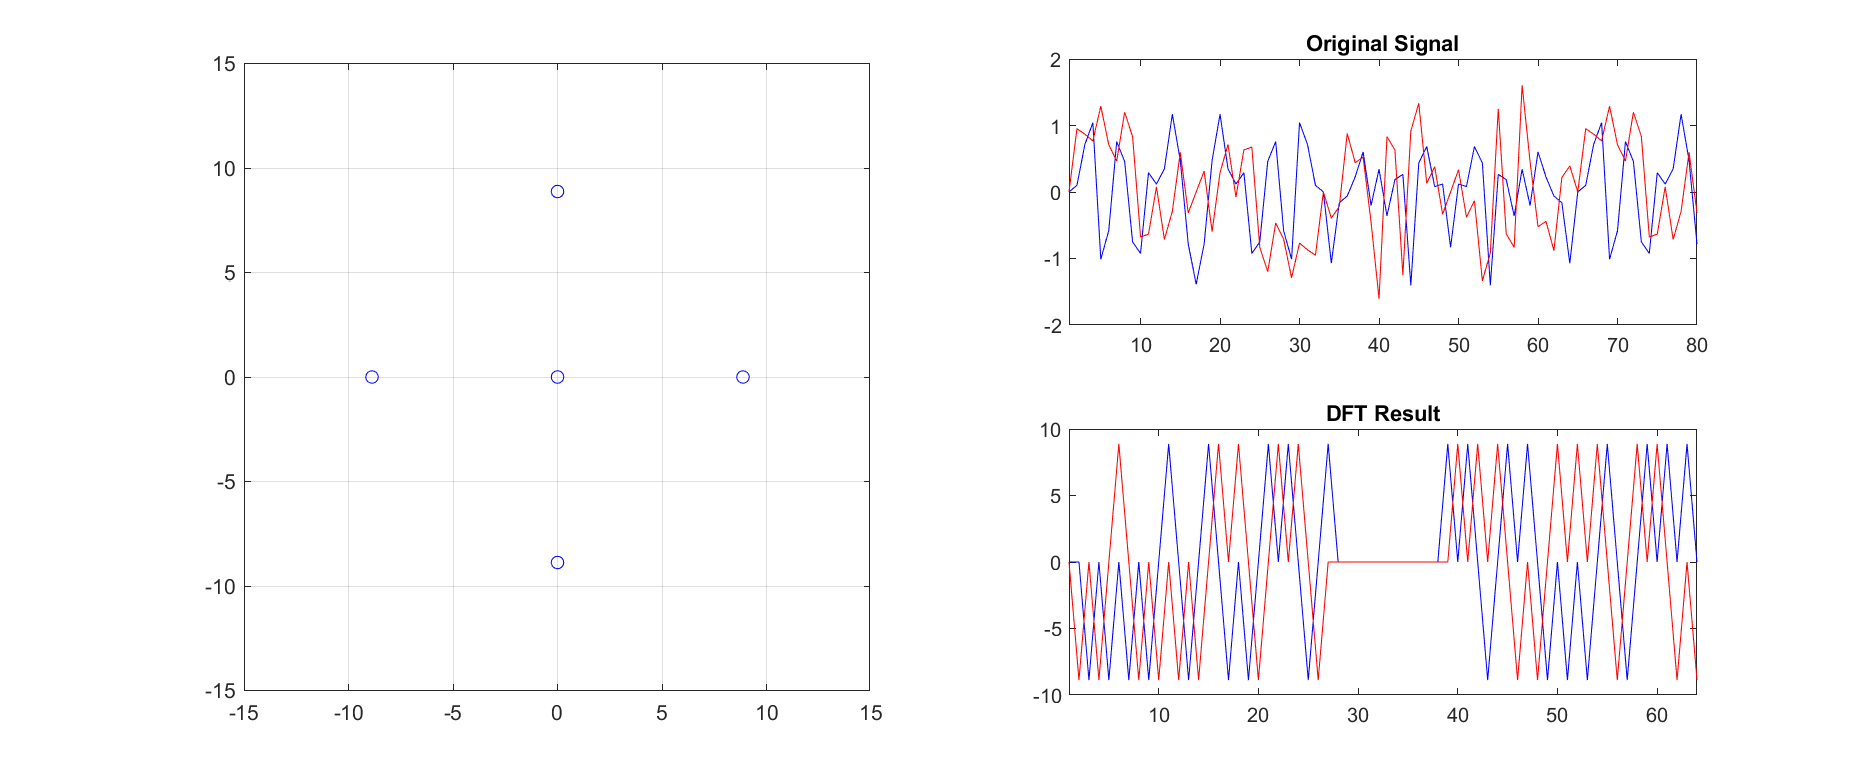
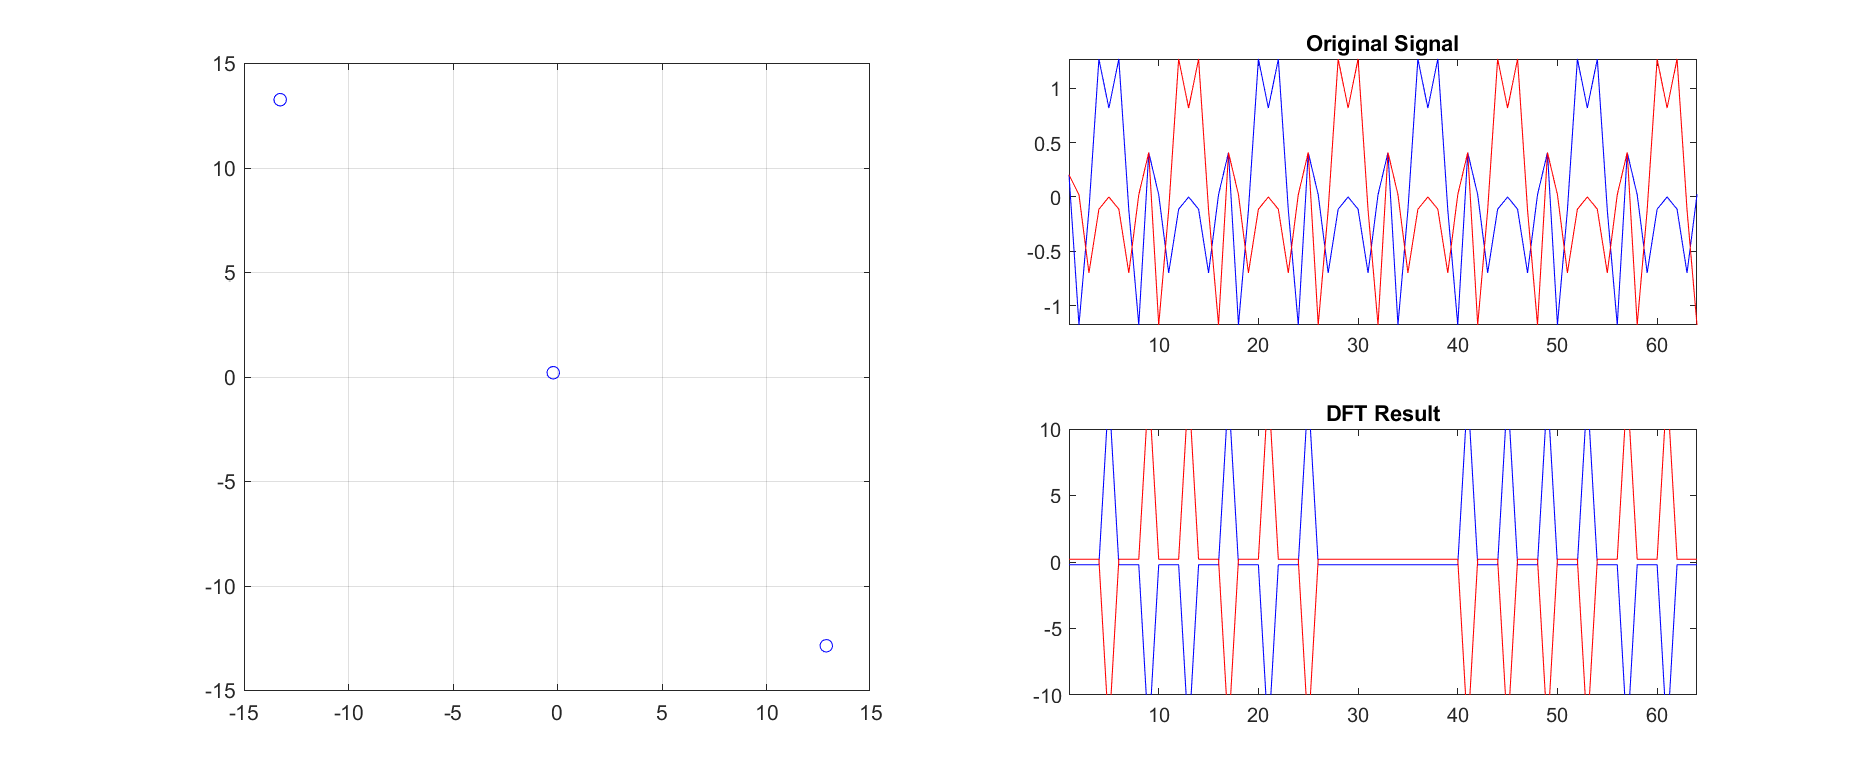
update

diff --git a/signal_preprocess/preprocess.m b/signal_preprocess/preprocess.m
@@ -7,12 +7,51 @@ dft_matrix = dftmtx(64);
 
 save_fig_folder = "./results/";
 
+
+sync_long = get_sync_long();
+
+cfg = wlanHTConfig('ChannelBandwidth', 'CBW20');
+HTLTF = wlanHTLTF(cfg);
+HTSTF = wlanHTSTF(cfg);
+
+sync_long_dot_ret = row_x_matrix(HTLTF(1:64).', dft_matrix);
+sync_short_dot_ret = row_x_matrix(HTSTF(1:64).', dft_matrix);
+
+figure();
+subplot(2, 2, 1)
+plot(real(HTLTF), 'b')
+hold on
+plot(imag(HTLTF), 'r')
+xlim([1, 64])
+title("Long-Training-Field")
+
+subplot(2, 2, 2)
+plot(real(HTSTF), 'b')
+hold on
+plot(imag(HTSTF), 'r')
+xlim([1, 64])
+title("Short-Training-Field")
+
+subplot(2, 2, 3)
+plot(real(sync_long_dot_ret), 'b')
+hold on
+plot(imag(sync_long_dot_ret), 'r')
+xlim([1, 64])
+title("DFT Long-Training-Field")
+
+subplot(2, 2, 4)
+plot(real(sync_short_dot_ret), 'b')
+hold on
+plot(imag(sync_short_dot_ret), 'r')
+xlim([1, 64])
+title("DFT Short-Training-Field")
+
 for e = 0:7
     [dataset, len] = get_signal(e, 128);
 
     n_odfm_symbol = floor(len/80);
 
-    for i_symbol = 9:n_odfm_symbol
+    for i_symbol = 1:n_odfm_symbol
         smp_s = (i_symbol-1)*80+1;
         smp_e = i_symbol*80;
         
@@ -86,7 +125,7 @@ for e = 0:7
         hold on
         plot(symbol_sample(2, :), 'r-')
         title("Original Signal")
-        xlim([1, 80])
+        xlim([1, 64])
 
         subplot(2, 2, 4)
         plot(real(dot_ret_cyclic(show_cyclic, :)), 'b-')
@@ -94,6 +133,7 @@ for e = 0:7
         title("DFT Result")
         plot(imag(dot_ret_cyclic(show_cyclic, :)), 'r-')
         xlim([1, 64])
+        ylim([-10, 10])
 
         subplot(2, 2, [1, 3])
         plot(real(dot_ret_cyclic(show_cyclic, :)), imag(dot_ret_cyclic(show_cyclic, :)), 'bo')
@@ -109,7 +149,7 @@ for e = 0:7
         saveas(fig, strcat(save_fig_folder, filename))
         break
     end
-    % break
+    break
 end
 
 
@@ -140,7 +180,30 @@ function [d, len] = get_signal(e, pdu_len)
     d = d(:, 1:len);
 end
 
-
+function sync_long = get_sync_long()
+    sync_long = [-0.0455 - 1.0679*1j, 0.3528 - 0.9865*1j, 0.8594 + 0.7348*1j, ...
+                 0.1874 + 0.2475*1j, 0.5309 - 0.7784*1j, -1.0218 - 0.4897*1j, ...
+                 -0.3401 - 0.9423*1j, 0.8657 - 0.2298*1j, 0.4734 + 0.0362*1j, ...
+                 0.0088 - 1.0207*1j, -1.2142 - 0.4205*1j, 0.2172 - 0.5195*1j, ...
+                 0.5207 - 0.1326*1j, -0.1995 + 1.4259*1j, 1.0583 - 0.0363*1j, ...
+                 0.5547 - 0.5547*1j, 0.3277 + 0.8728*1j, -0.5077 + 0.3488*1j, ...
+                 -1.1650 + 0.5789*1j, 0.7297 + 0.8197*1j, 0.6173 + 0.1253*1j, ...
+                 -0.5353 + 0.7214*1j, -0.5011 - 0.1935*1j, -0.3110 - 1.3392*1j, ...
+                 -1.0818 - 0.1470*1j, -1.1300 - 0.1820*1j, 0.6663 - 0.6571*1j, ...
+                 -0.0249 + 0.4773*1j, -0.8155 + 1.0218*1j, 0.8140 + 0.9396*1j, ...
+                 0.1090 + 0.8662*1j, -1.3868 - 0.0000*1j, 0.1090 - 0.8662*1j, ...
+                 0.8140 - 0.9396*1j, -0.8155 - 1.0218*1j, -0.0249 - 0.4773*1j, ...
+                 0.6663 + 0.6571*1j, -1.1300 + 0.1820*1j, -1.0818 + 0.1470*1j, ...
+                 -0.3110 + 1.3392*1j, -0.5011 + 0.1935*1j, -0.5353 - 0.7214*1j, ...
+                 0.6173 - 0.1253*1j, 0.7297 - 0.8197*1j, -1.1650 - 0.5789*1j, ...
+                 -0.5077 - 0.3488*1j, 0.3277 - 0.8728*1j, 0.5547 + 0.5547*1j, ...
+                 1.0583 + 0.0363*1j, -0.1995 - 1.4259*1j, 0.5207 + 0.1326*1j, ...
+                 0.2172 + 0.5195*1j, -1.2142 + 0.4205*1j, 0.0088 + 1.0207*1j, ...
+                 0.4734 - 0.0362*1j, 0.8657 + 0.2298*1j, -0.3401 + 0.9423*1j, ...
+                 -1.0218 + 0.4897*1j, 0.5309 + 0.7784*1j, 0.1874 - 0.2475*1j, ...
+                 0.8594 - 0.7348*1j, 0.3528 + 0.9865*1j, -0.0455 + 1.0679*1j, ...
+                 1.3868 - 0.0000*1j];
+end
 
 
 

diff --git a/signal_preprocess/generate_signals.m b/signal_preprocess/generate_signals.m
@@ -2,9 +2,29 @@ clc
 clear
 close all
 %%
-% WBFM; BPSK; QPSK; 8PSK; 16QAM; 64QAM; 4PAM; CPFSK; AM-SSB; SM-DSB
+% Discrete sample:
+%   BPSK; QPSK; 8PSK; 16QAM; 64QAM; 4PAM; CPFSK
+% Continue sample:
+%   WBFM; AM-SSB; SM-DSB
+
+%% Wi-Fi
+
 
 %% WBFM
+% http://hyperphysics.phy-astr.gsu.edu/hbase/Audio/radio.html
+fs = 1e3;           % Sample Frequency
+fc = 200;           % Carrier Frequency 88.1 MHz - 108.1 MHz
+fDev = 50;          % Frequency Deviation (Hz)/Modulation index
+
+t = (0:1/fs:.1);
+continue_signal = sin(2*pi*30*t) + 2*sin(2*pi*60*t);
+
+fm_signal = fmmod(continue_signal, fc, fs, fDev);
+fm_fig = figure();
+plot(t, fm_signal)
+hold on
+plot(t, continue_signal)
+legend("Modulated Signal", "Original Signal")
 
 
 %% 4PAM
@@ -33,18 +53,35 @@ plot(imag(cpfsk_signal))
 
 
 %% AM-SSB; AM-DSB
-fs = 100;
-fc = 10;
-t = (0:1/fs:1);
-x = sin(2*pi*t);
+% http://hyperphysics.phy-astr.gsu.edu/hbase/Audio/radio.html
+fs = 44.1e3;           % Sample Frequency
+fc = 550e3;           % Carrier Frequency 540k - 1600k Hz
+t = (0:1/fs:.01);
+continue_signal = sin(2*pi*30*t) + 2*sin(2*pi*60*t);
 
-am_dsb = ammod(x, fc, fs);
-am_ssb = ssbmod(x, fc, fs);
+s_t = continue_signal;
+h_t = imag(hilbert(continue_signal));
+s_lsb = s_t.*cos(2*pi*fc*t) - h_t.*sin(2*pi*fc*t);
+s_usb = s_t.*cos(2*pi*fc*t) + h_t.*sin(2*pi*fc*t);
+s_dsb = s_lsb + s_usb;
 
 am_fig = figure();
-plot(am_dsb)
+plot(real(s_lsb))
 hold on
-plot(am_ssb)
+plot(real(s_usb))
+hold on
+plot(s_dsb)
+legend("AM-LowerSide", "AM-UpperSide", "AM-DSB")
+
+
+% am_dsb = ammod(continue_signal, fc, fs);
+% am_ssb = ssbmod(continue_signal, fc, fs);
+% 
+% am_fig = figure();
+% plot(am_dsb)
+% hold on
+% plot(am_ssb)
+% legend("AM-DSB", "AM-SSB")
 
 
 %%
